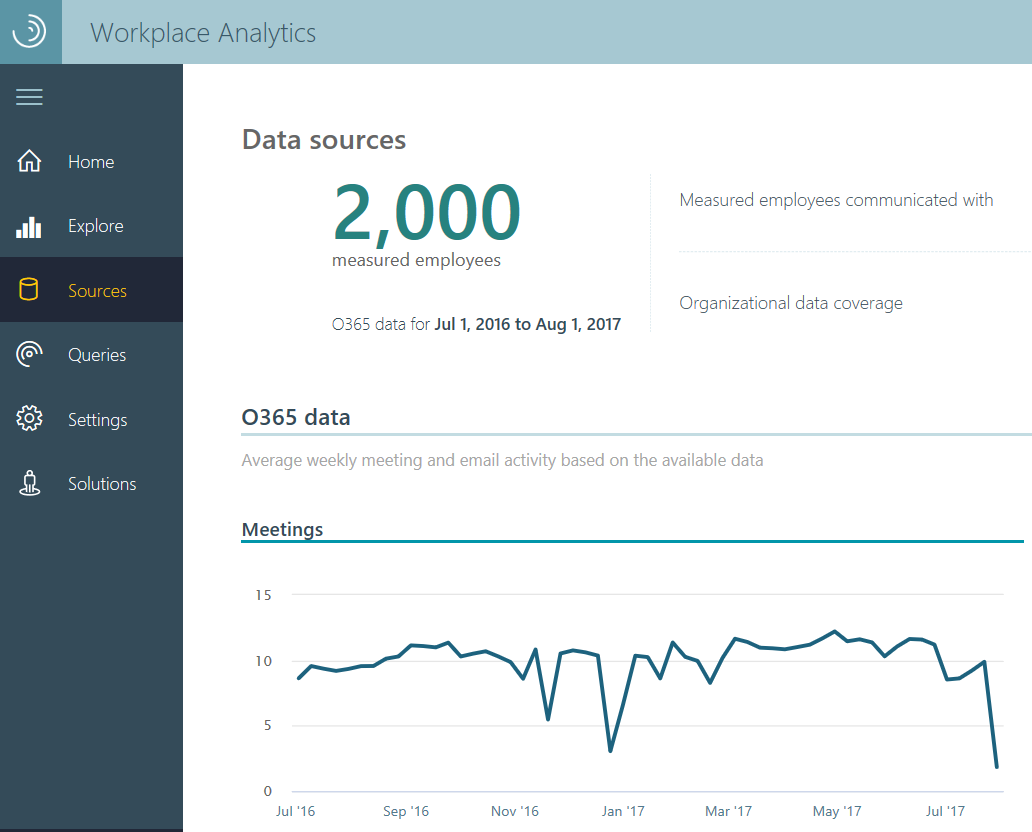
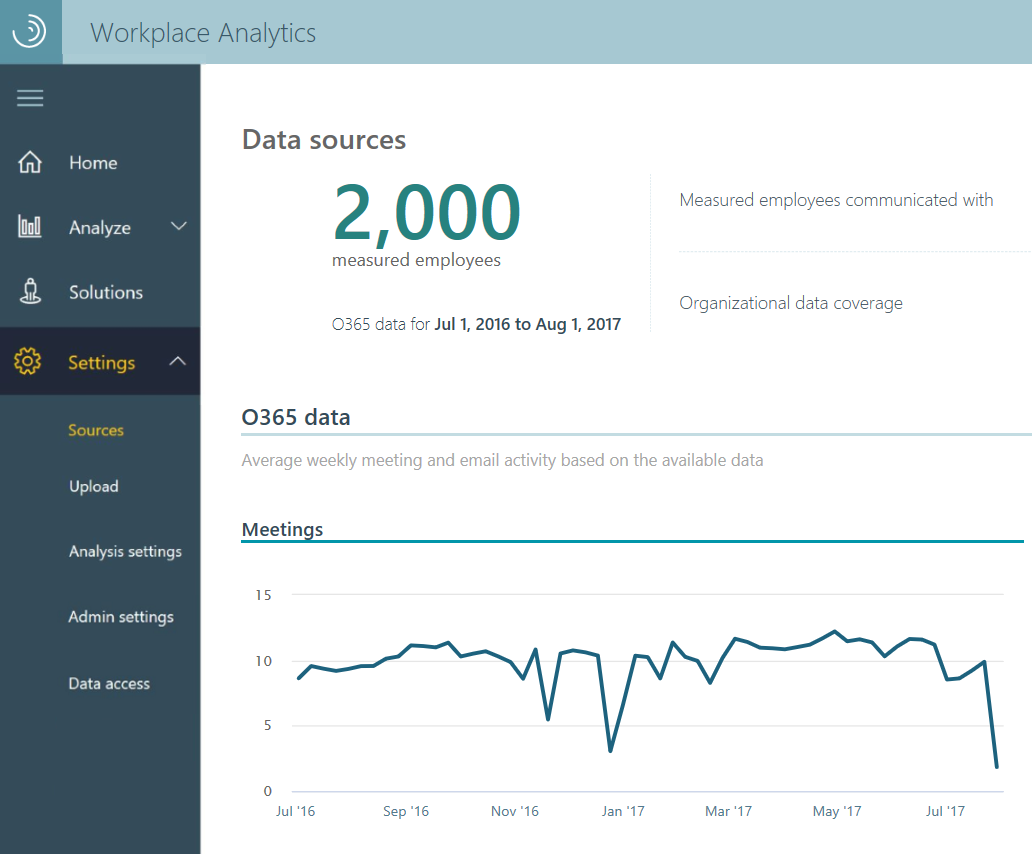
update data sources

diff --git a/WorkplaceAnalytics/Includes/to-open-wpa-sources.md b/WorkplaceAnalytics/Includes/to-open-wpa-sources.md
@@ -15,7 +15,7 @@ ms.prod: wpa
 **To open the Workplace Analytics Data Sources page** 
 
 1. Open the [Workplace Analytics](https://workplaceanalytics.office.com) Home page. If prompted, enter your organization's credentials.
-2. In the left navigation pane, select **Sources**. 
+2. In the left navigation pane, select **Settings** and then select **Sources**. 
 
    >[!Note] 
    >You must be assigned either the Administrator or Analyst role to access the Data Sources page. 

diff --git a/WorkplaceAnalytics/Use/Data-sources.md b/WorkplaceAnalytics/Use/Data-sources.md
@@ -15,7 +15,7 @@ ms.prod: wpa
 
 Data sources contains high-level dashboard views that Workplace Analytics administrators and data analysts can use to verify that Office 365 and organizational data is loaded and ready to use.
 
-![Data sources](../images/WpA/Use/Data-sources.png)
+![Data sources](../images/WpA/Use/data-sources.png)
 
 [!INCLUDE [To open the Workplace Analytics Sources page](../includes/to-open-wpa-sources.md)]
 
